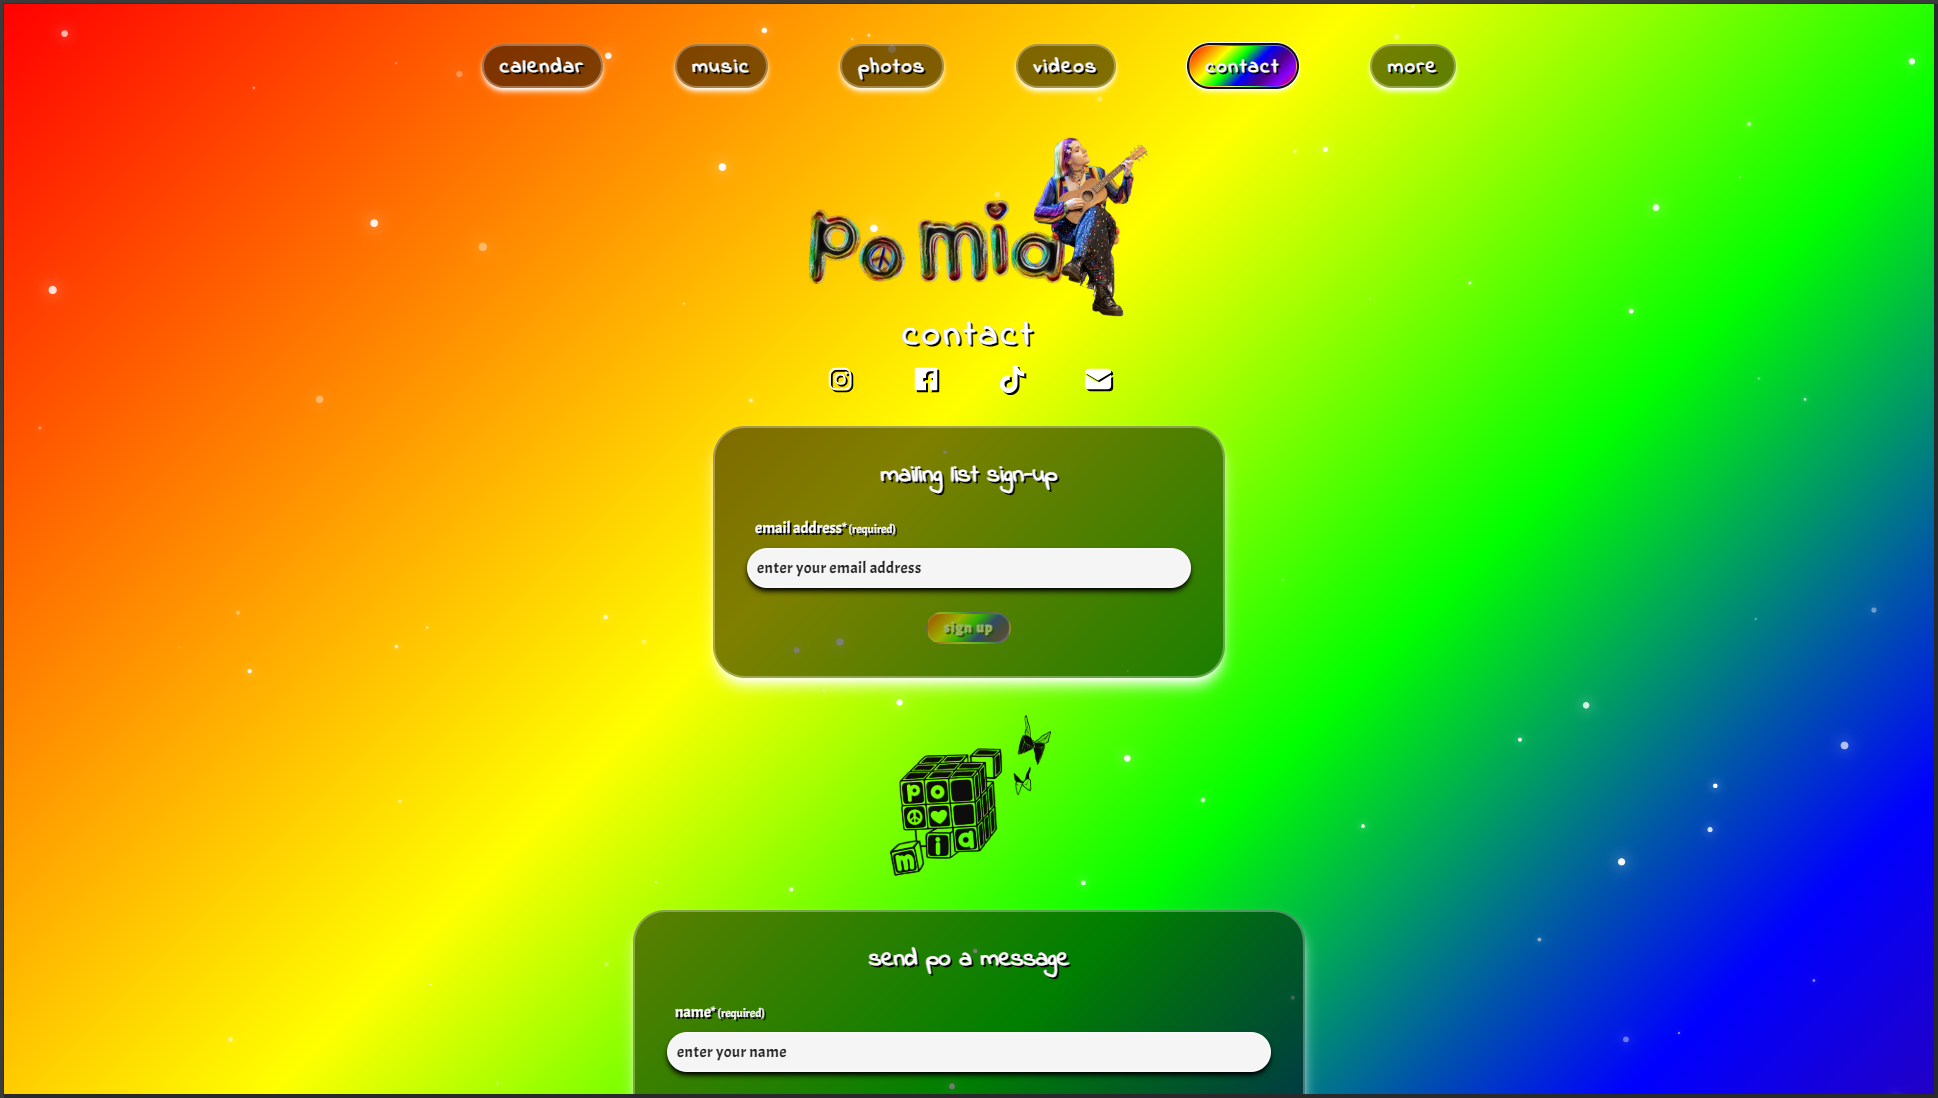
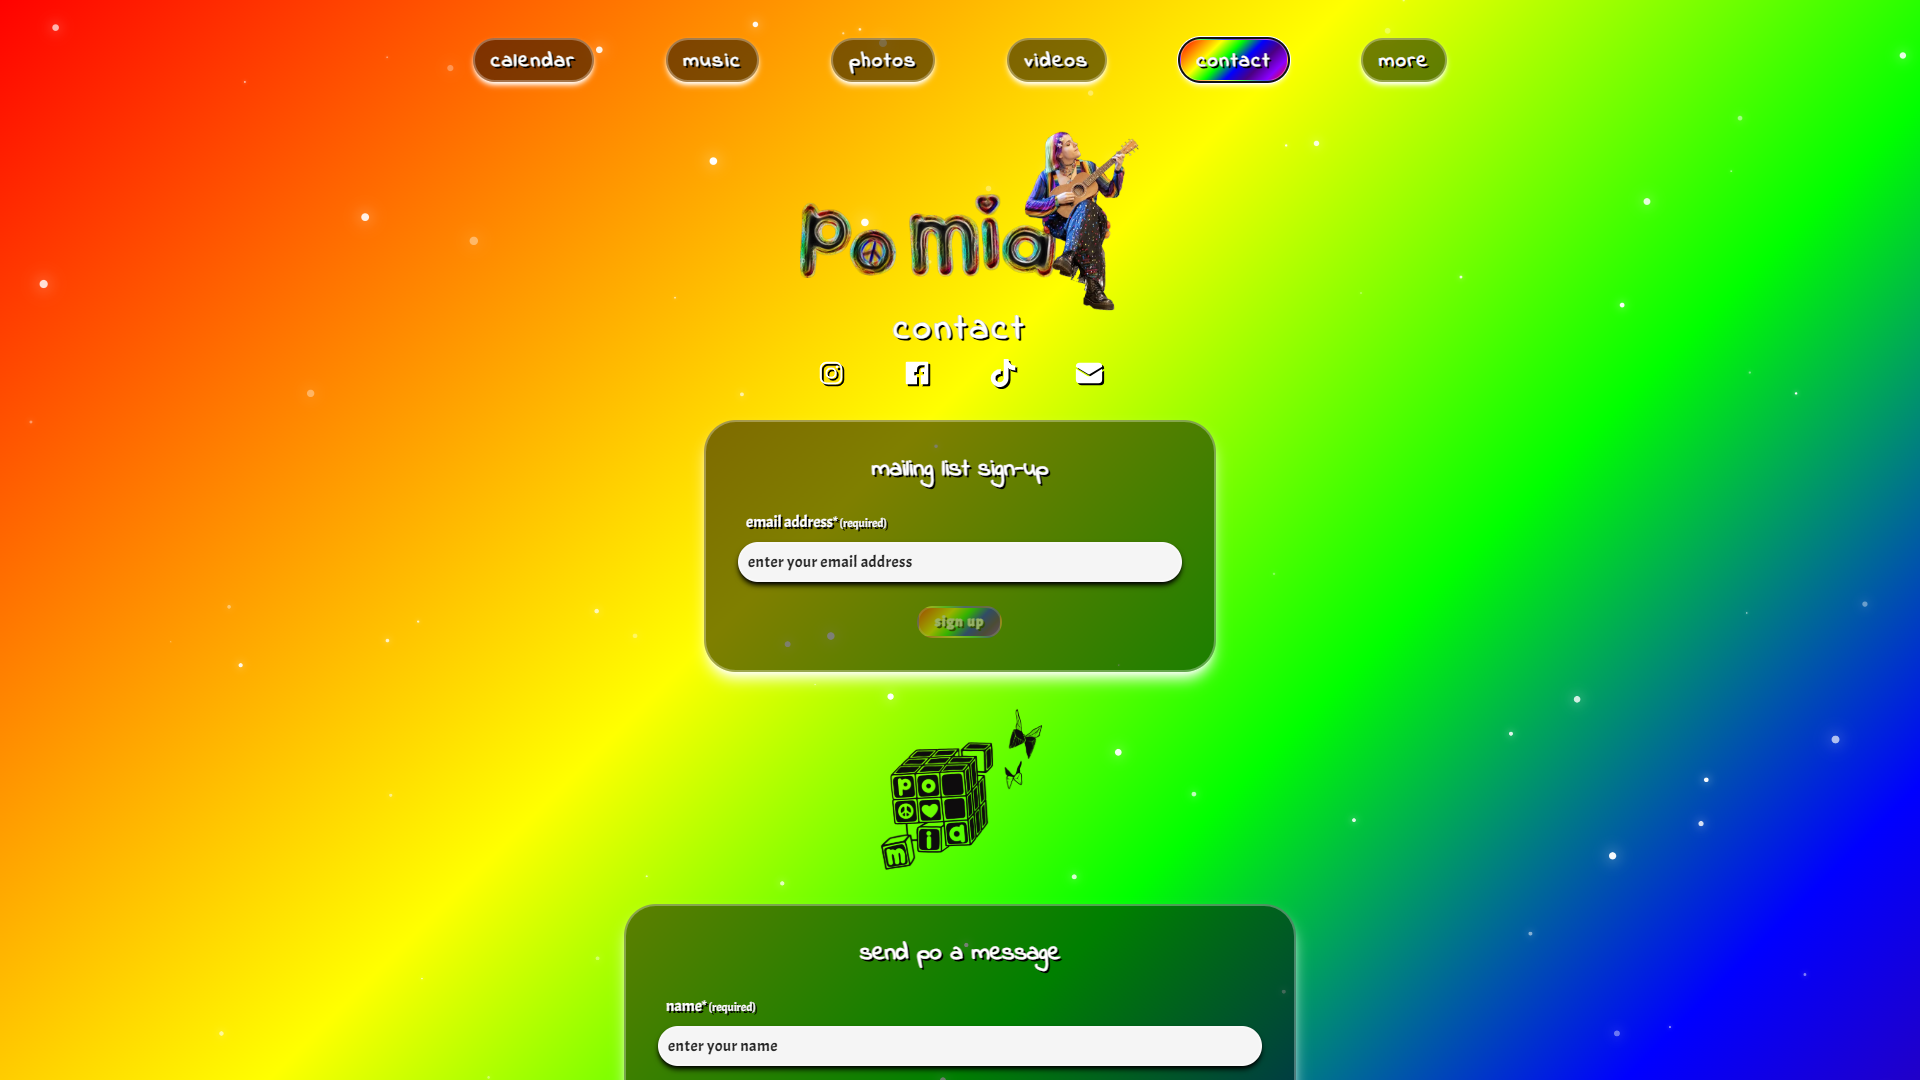
crop desktop pics

diff --git a/lib/project-data.ts b/lib/project-data.ts
@@ -49,20 +49,21 @@ export const projects = [
     ],
     desktop_image: [
       "/images/projects/po-mia/desktop/home.png",
-      // "/images/projects/po-mia/desktop/music.png",
-      // "/images/projects/po-mia/desktop/calendar.png",
-      // "/images/projects/po-mia/desktop/contact.png",
-      // "/images/projects/po-mia/desktop/frog-footer.png",
-      // "/images/projects/po-mia/desktop/shows-future.png",
+      "/images/projects/po-mia/desktop/music.png",
+      "/images/projects/po-mia/desktop/photos.png",
+      "/images/projects/po-mia/desktop/contact.png",
+      "/images/projects/po-mia/desktop/videos.png",
+      "/images/projects/po-mia/desktop/sign-in.png",
+      "/images/projects/po-mia/desktop/sign-up.png"
     ],
     url: "pomiamusic.com",
     features: [
+      "Responsive",
+      "Accessible",
       "Installable PWA",
       "Custom CMS",
       "Push Notifications",
       "Mailing List",
-      "Responsive",
-      "Accessible",
       "Analytics",
       "Gig Calendar",
       "Audio Player",
